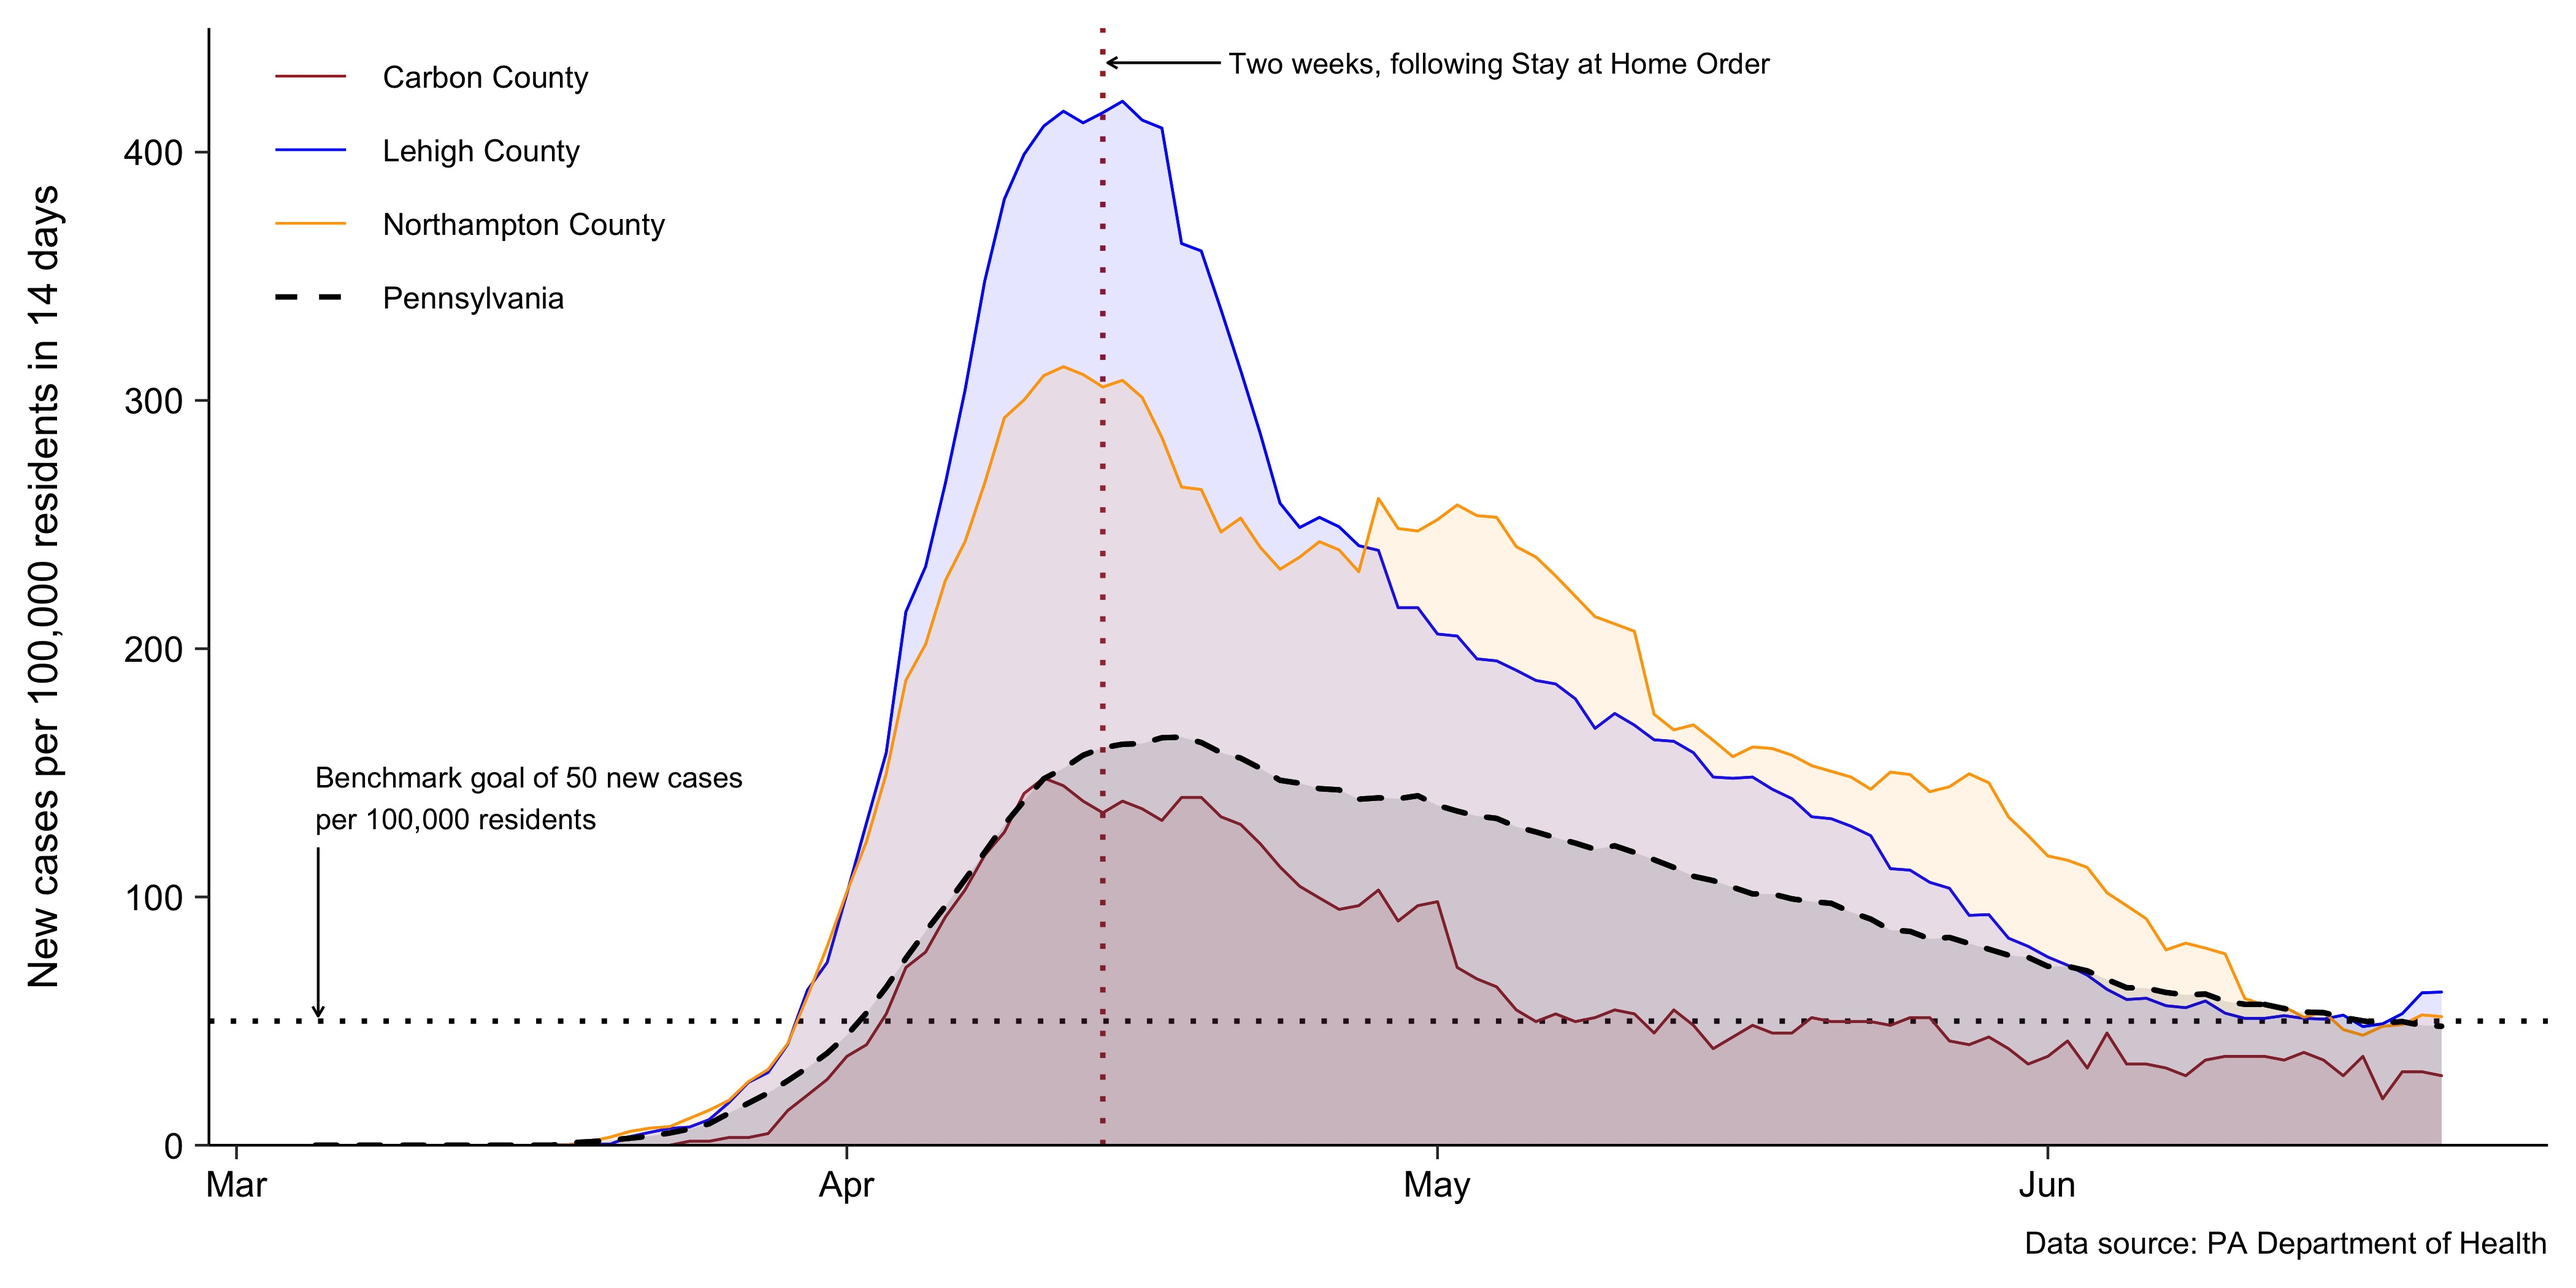
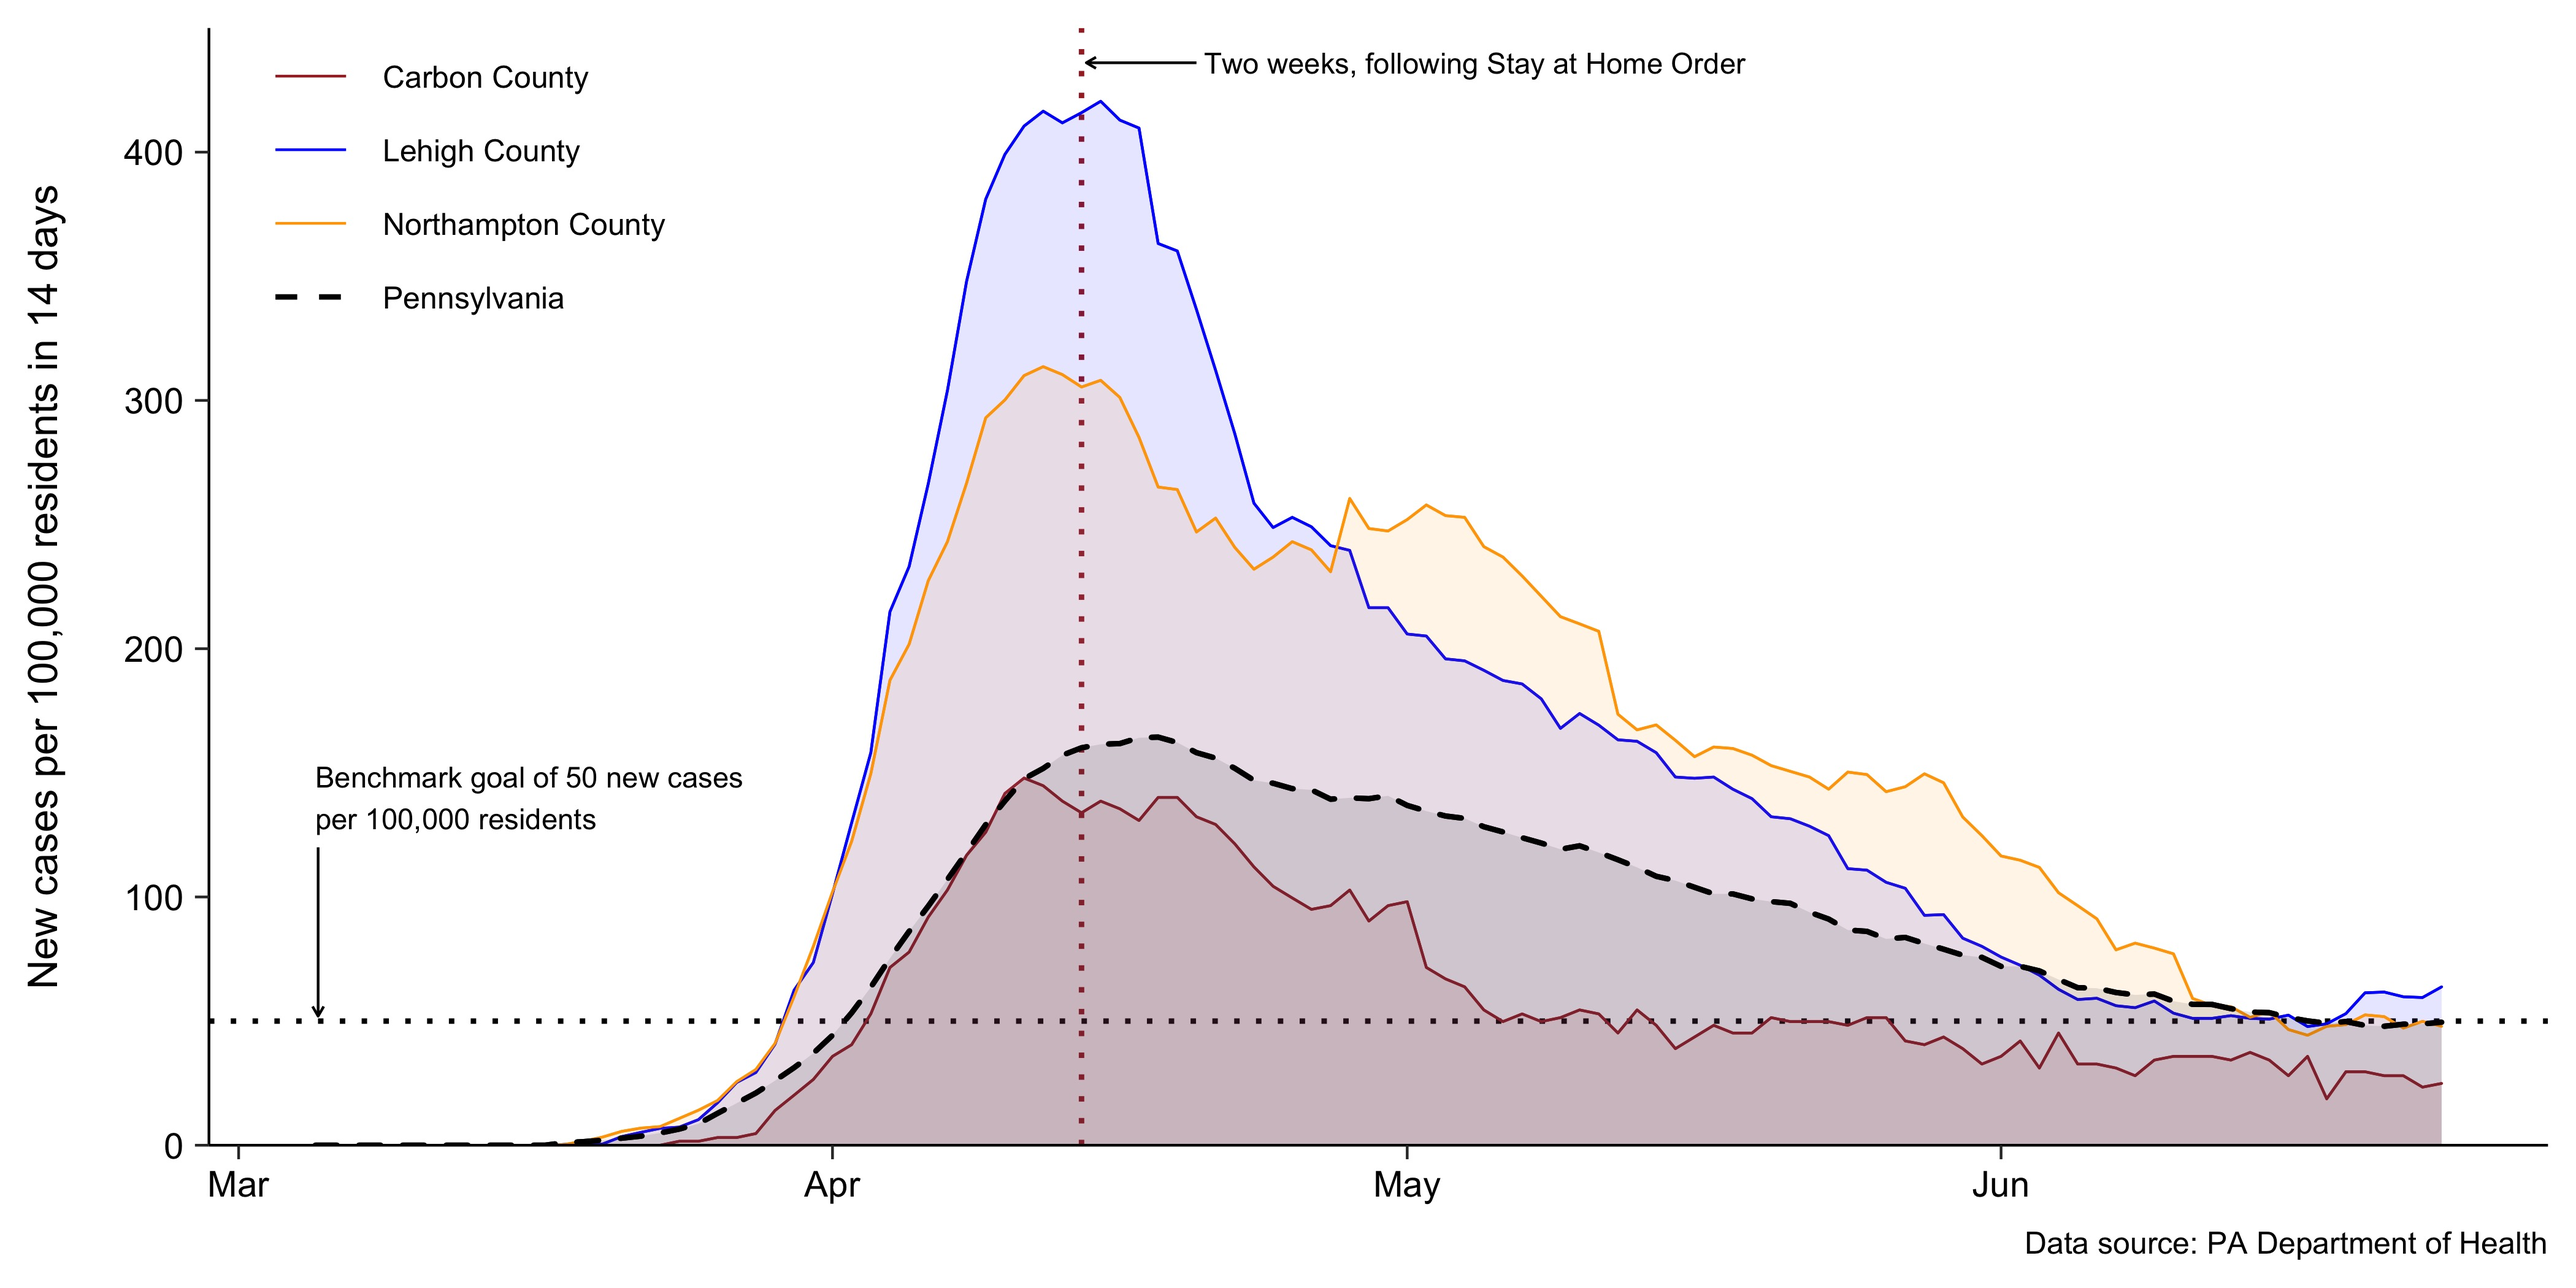
Updates

diff --git a/index.html b/index.html
@@ -32,6 +32,13 @@ class: center, middle, inverse, title-slide
 
  * Slides from an intro course on **Programming in R**,
  can be found on [Github](https://jeremymack-lu.github.io/rprog/).
+  + Topics of interest include:
+    
+     - Topic 3 - [Getting started with R and R Studio](https://jeremymack-lu.github.io/rprog/#20)
+    
+     - Topic 4 - [Installing functions in R](https://jeremymack-lu.github.io/rprog/#72)
+    
+     - Topic 5 - [Working with data in R](https://jeremymack-lu.github.io/rprog/#83)
  
 ---
 class: center, middle, inverse
@@ -485,8 +492,8 @@ raw_list
 .tiny2[
 
 ```
-[1] "/topics/Documents/Diseases%20and%20Conditions/COVID-19%20County%20Data/County%20Case%20Counts_6-19-2020.pdf"                     
-[2] "/topics/Documents/Diseases%20and%20Conditions/COVID-19%20Death%20Data/Death%20by%20County%20of%20Residence%20--%202020-06-19.pdf"
+[1] "/topics/Documents/Diseases%20and%20Conditions/COVID-19%20County%20Data/County%20Case%20Counts_6-24-2020.pdf"                     
+[2] "/topics/Documents/Diseases%20and%20Conditions/COVID-19%20Death%20Data/Death%20by%20County%20of%20Residence%20--%202020-06-24.pdf"
 ```
 ]
 
@@ -518,18 +525,19 @@ class: center, middle, inverse
 pdf1 &lt;- pdf_text(url1) %&gt;%  # Select the linked PDF with case data
   read_lines()              # Read lines into a list of vectors
 
-cases &lt;- pdf1 %&gt;%             # Select the list of vectors
+cases &lt;- pdf1 %&gt;%           # Select the list of vectors
   str_squish() %&gt;%          # Remove extra whitespace between elements
   str_split(pattern=" ")    # Split vector string into pieces (i.e., columns)
 
 cases &lt;- do.call(rbind,
                Filter(function(x) length(x)==6, cases))  # Combine list elements with 6 items
+cases &lt;- cases[-1,]                                      # Remove first row
 
 cases &lt;- cases %&gt;%
-  as.data.frame() %&gt;%                         # Convert to a data frame
-  mutate(County=as.factor(V1),                # Set County to factor
-         Cases=as.numeric(as.character(V3))) %&gt;%            # Set Cases to numeric
-  mutate(County=str_to_sentence(County)) %&gt;%  # Change County from all caps
+  as.data.frame() %&gt;%                             # Convert to a data frame
+  mutate(County=as.factor(V1),                    # Set County to factor
+         Cases=as.numeric(as.character(V3))) %&gt;%  # Set Cases to numeric
+  mutate(County=str_to_sentence(County)) %&gt;%      # Change County from all caps
   select(7:8)
 
 head(cases, 5)  # View first 5 rows of data frame
@@ -537,11 +545,11 @@ head(cases, 5)  # View first 5 rows of data frame
 
 ```
 ##      County Cases
-## 1     Adams   309
-## 2 Allegheny  2139
-## 3 Armstrong    69
-## 4    Beaver   619
-## 5   Bedford    63
+## 1     Adams   321
+## 2 Allegheny  2284
+## 3 Armstrong    70
+## 4    Beaver   634
+## 5   Bedford    71
 ```
 ]
 
@@ -559,13 +567,13 @@ deaths &lt;- pdf2 %&gt;%             # Select the list of vectors
   str_split(pattern=" ")    # Split vector string into pieces (i.e., columns)
 
 deaths &lt;- do.call(rbind,
-               Filter(function(x) length(x)==3, deaths))  # Combine list elements with 3 items
+               Filter(function(x) length(x)==4, deaths))  # Combine list elements with 3 items
 
 deaths &lt;- deaths %&gt;%
   as.data.frame() %&gt;%                         # Convert to a data frame
   mutate(County=as.factor(V1),                # Set County to factor
          Deaths=as.numeric(V2)) %&gt;%           # Set Cases to numeric
-  select(4:5)
+  select(5:6)
 
 head(deaths, 5)  # View first 5 rows of data frame
 ```
@@ -611,16 +619,16 @@ head(df, 10)                                           # View first 10 rows of d
 
 ```
 ##       County Cases Deaths
-## 1      Adams   309      3
-## 2  Allegheny  2139      8
-## 3  Armstrong    69     29
-## 4     Beaver   619     33
-## 5    Bedford    63     10
-## 6      Berks  4374     19
-## 7      Blair    56      1
-## 8   Bradford    49     16
-## 9      Bucks  5510     28
-## 10    Butler   263      5
+## 1      Adams   321      3
+## 2  Allegheny  2284      8
+## 3  Armstrong    70     29
+## 4     Beaver   634     33
+## 5    Bedford    71     10
+## 6      Berks  4453     20
+## 7      Blair    69      1
+## 8   Bradford    51     17
+## 9      Bucks  5619     28
+## 10    Butler   277      5
 ```
 
 ]
